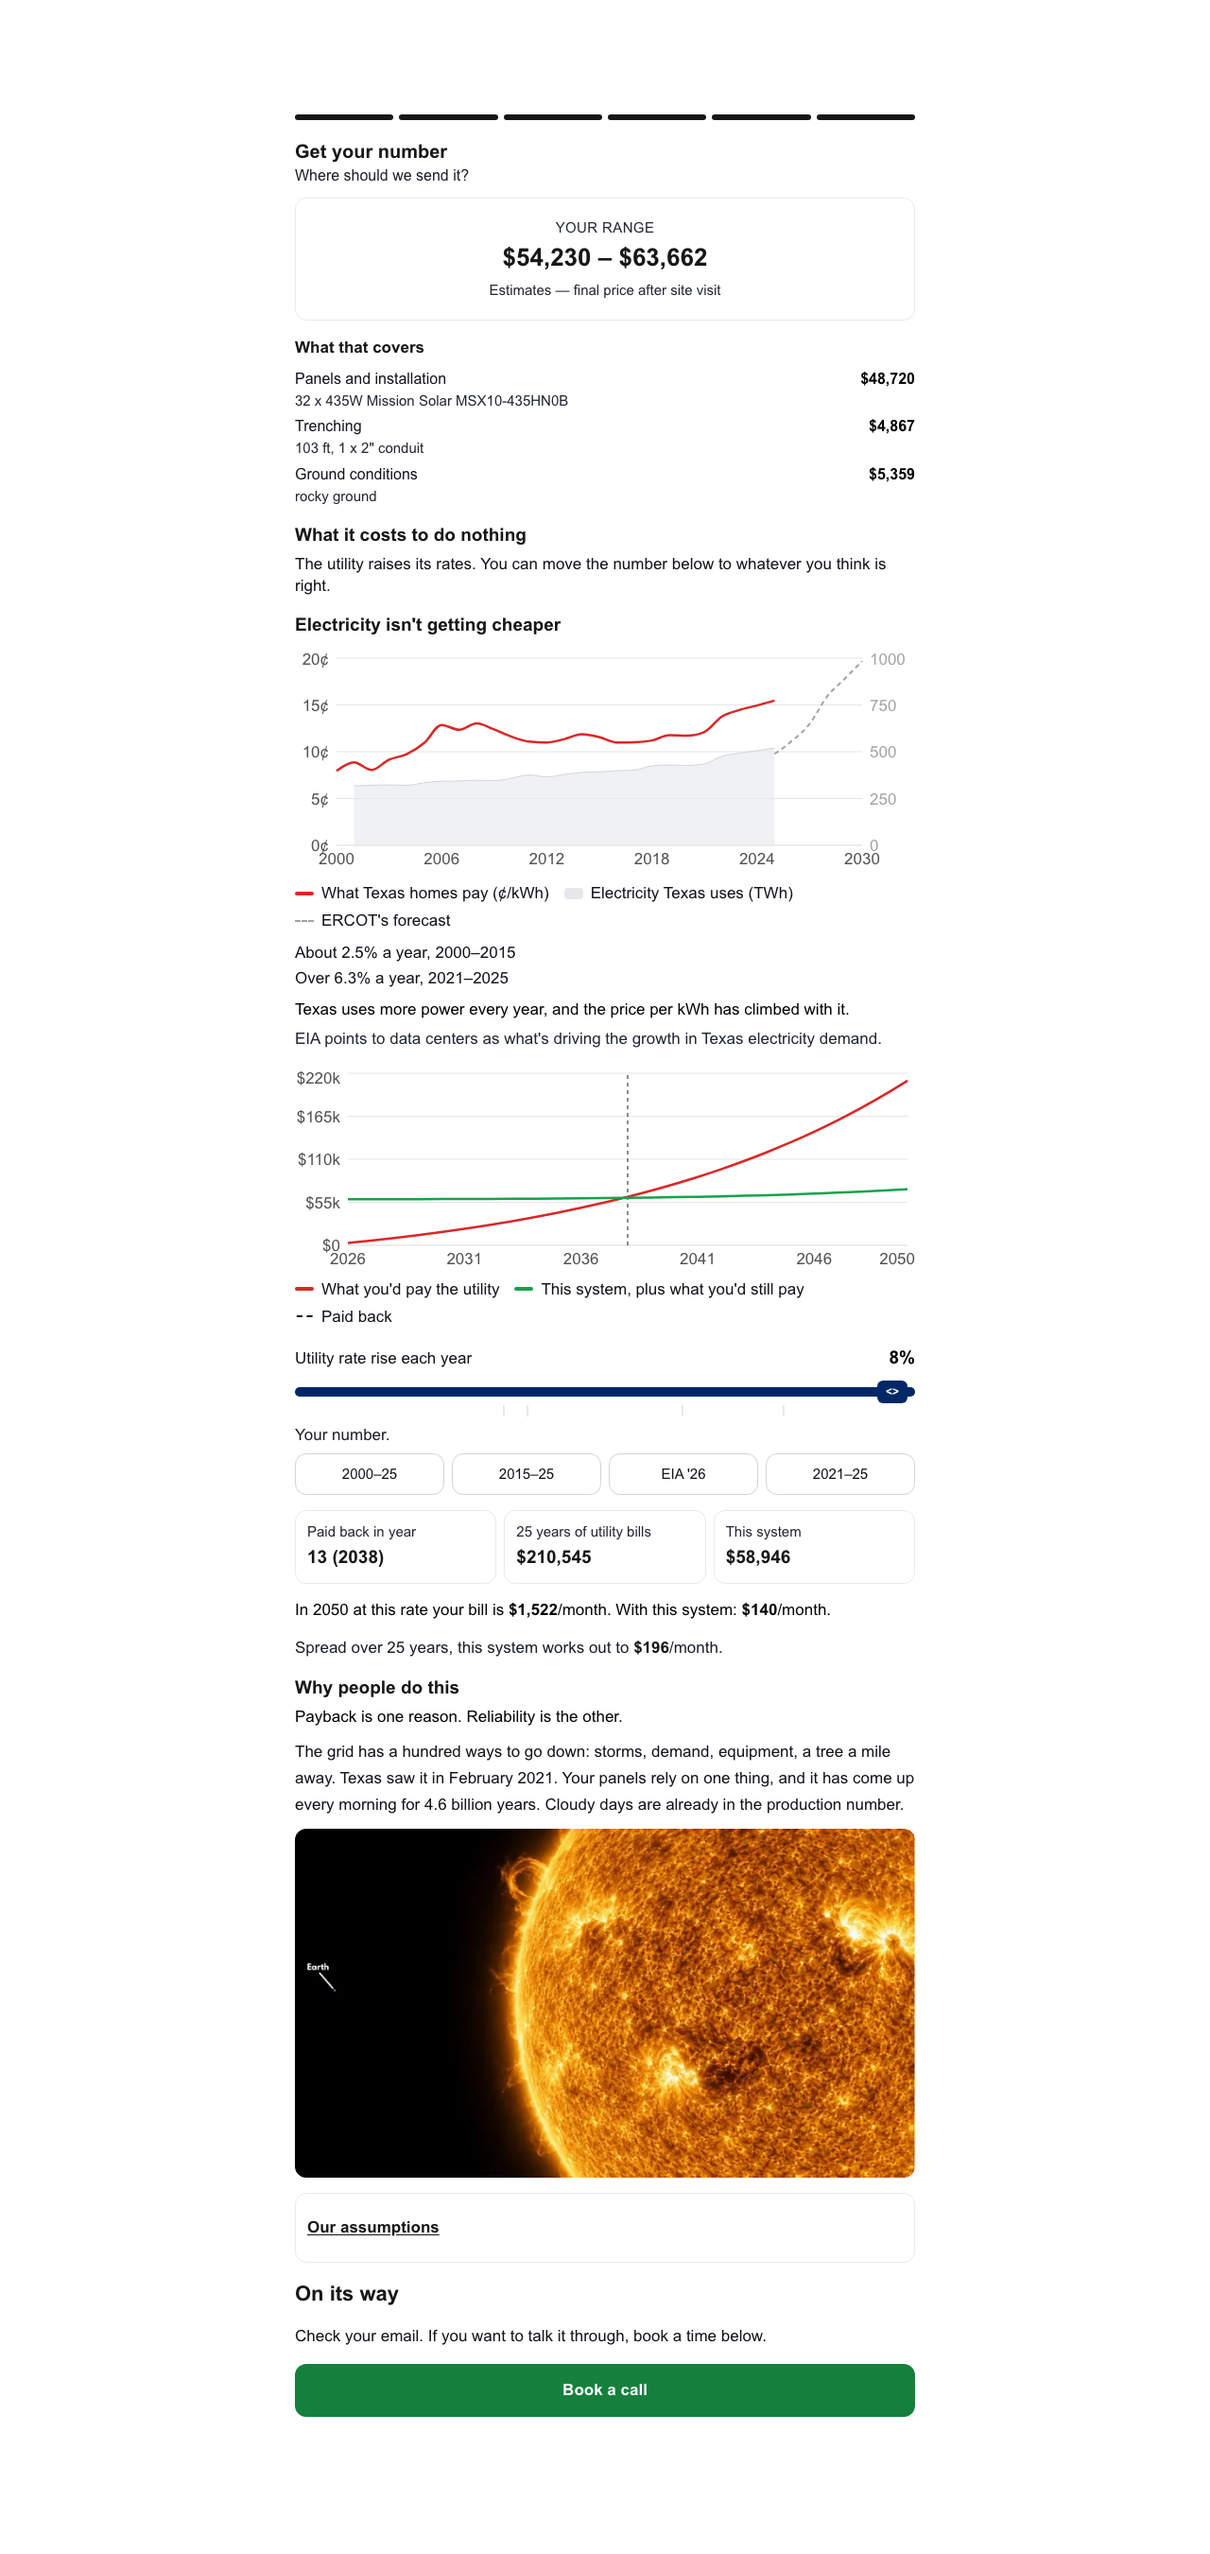
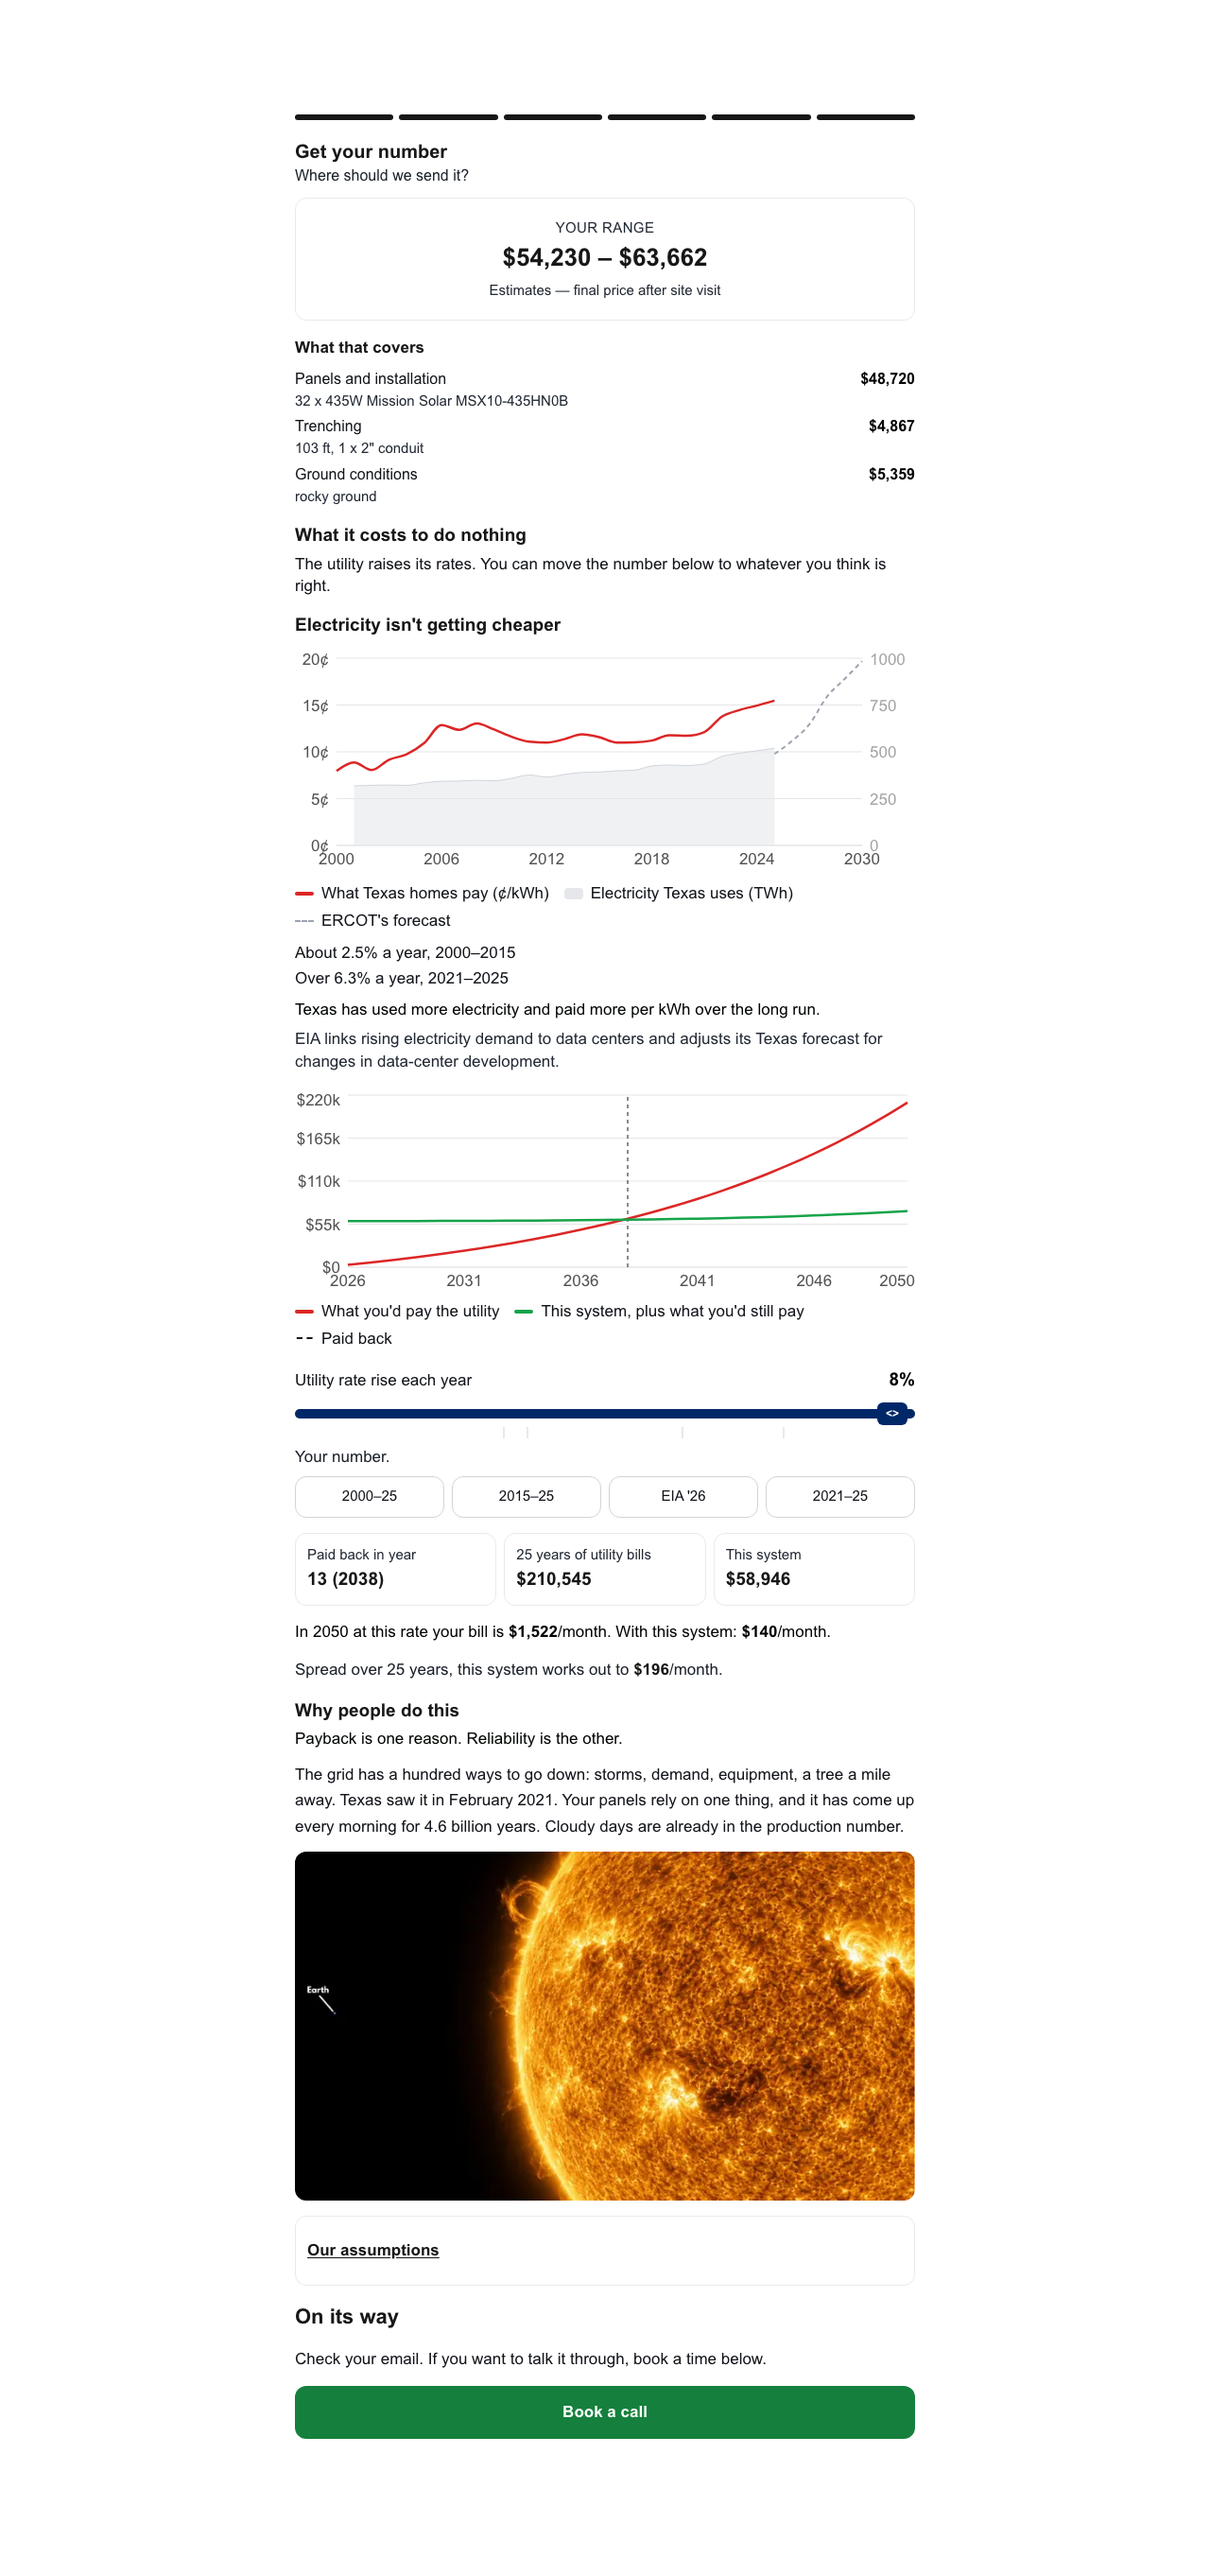
Phase 10.8: chart wording, and release housekeeping
Caption and source line reworded as the owner asked. The source line still
carries its citation comment: EIA attributes rising demand to data centers and
revised its Texas forecast after the state paused new data-center development,
and the wording now stays inside that.

Also dropped NEXT_PUBLIC_CALENDLY_URL from .env.example. Nothing reads it —
the booking link comes from brands.ts — and it has been removed from the Vercel
production environment along with GOOGLE_CLIENT_EMAIL, GOOGLE_PRIVATE_KEY,
NEXT_PUBLIC_SPREADSHEET_ID, WHILELIST_DOMAINS and EXT_PUBLIC_VERCEL_URL, all of
which had zero references in the codebase.

Claude-Session: https://claude.ai/code/session_01TY9QCPWCDnxgpSTw9UmJmg

diff --git a/e2e/shell.spec.ts b/e2e/shell.spec.ts
@@ -1864,7 +1864,7 @@ test('the history chart shows the record, above the forecast', async ({ page }) 
 
   // The caption describes the two series it sits under.
   await expect(page.getByTestId('history-caption')).toHaveText(
-    'Texas uses more power every year, and the price per kWh has climbed with it.'
+    'Texas has used more electricity and paid more per kWh over the long run.'
   );
 
   // Attribution is a separate line and names its source. The year-pinned
@@ -1872,7 +1872,7 @@ test('the history chart shows the record, above the forecast', async ({ page }) 
   // the series show, and anything beyond that has to be somebody's claim with
   // a name on it.
   await expect(page.getByTestId('history-source')).toHaveText(
-    "EIA points to data centers as what's driving the growth in Texas electricity demand."
+    'EIA links rising electricity demand to data centers and adjusts its Texas forecast for changes in data-center development.'
   );
   await expect(page.getByTestId('history-demand-callouts')).toHaveCount(0);
 

diff --git a/src/config/copy.ts b/src/config/copy.ts
@@ -373,7 +373,7 @@ export const UI = {
   historyPriceAxis: '¢/kWh',
   historyDemandAxis: 'TWh',
   historyCaption:
-    'Texas uses more power every year, and the price per kWh has climbed with it.',
+    'Texas has used more electricity and paid more per kWh over the long run.',
   /*
     What EIA says is behind it, kept separate from what the chart shows.
 
@@ -393,7 +393,7 @@ export const UI = {
     connection with Texas demand, so neither does this line.
   */
   historySource:
-    "EIA points to data centers as what's driving the growth in Texas electricity demand.",
+    'EIA links rising electricity demand to data centers and adjusts its Texas forecast for changes in data-center development.',
   historyRateSuffix: 'a year',
   historySince: 'since',
   historyAbout: 'About',
